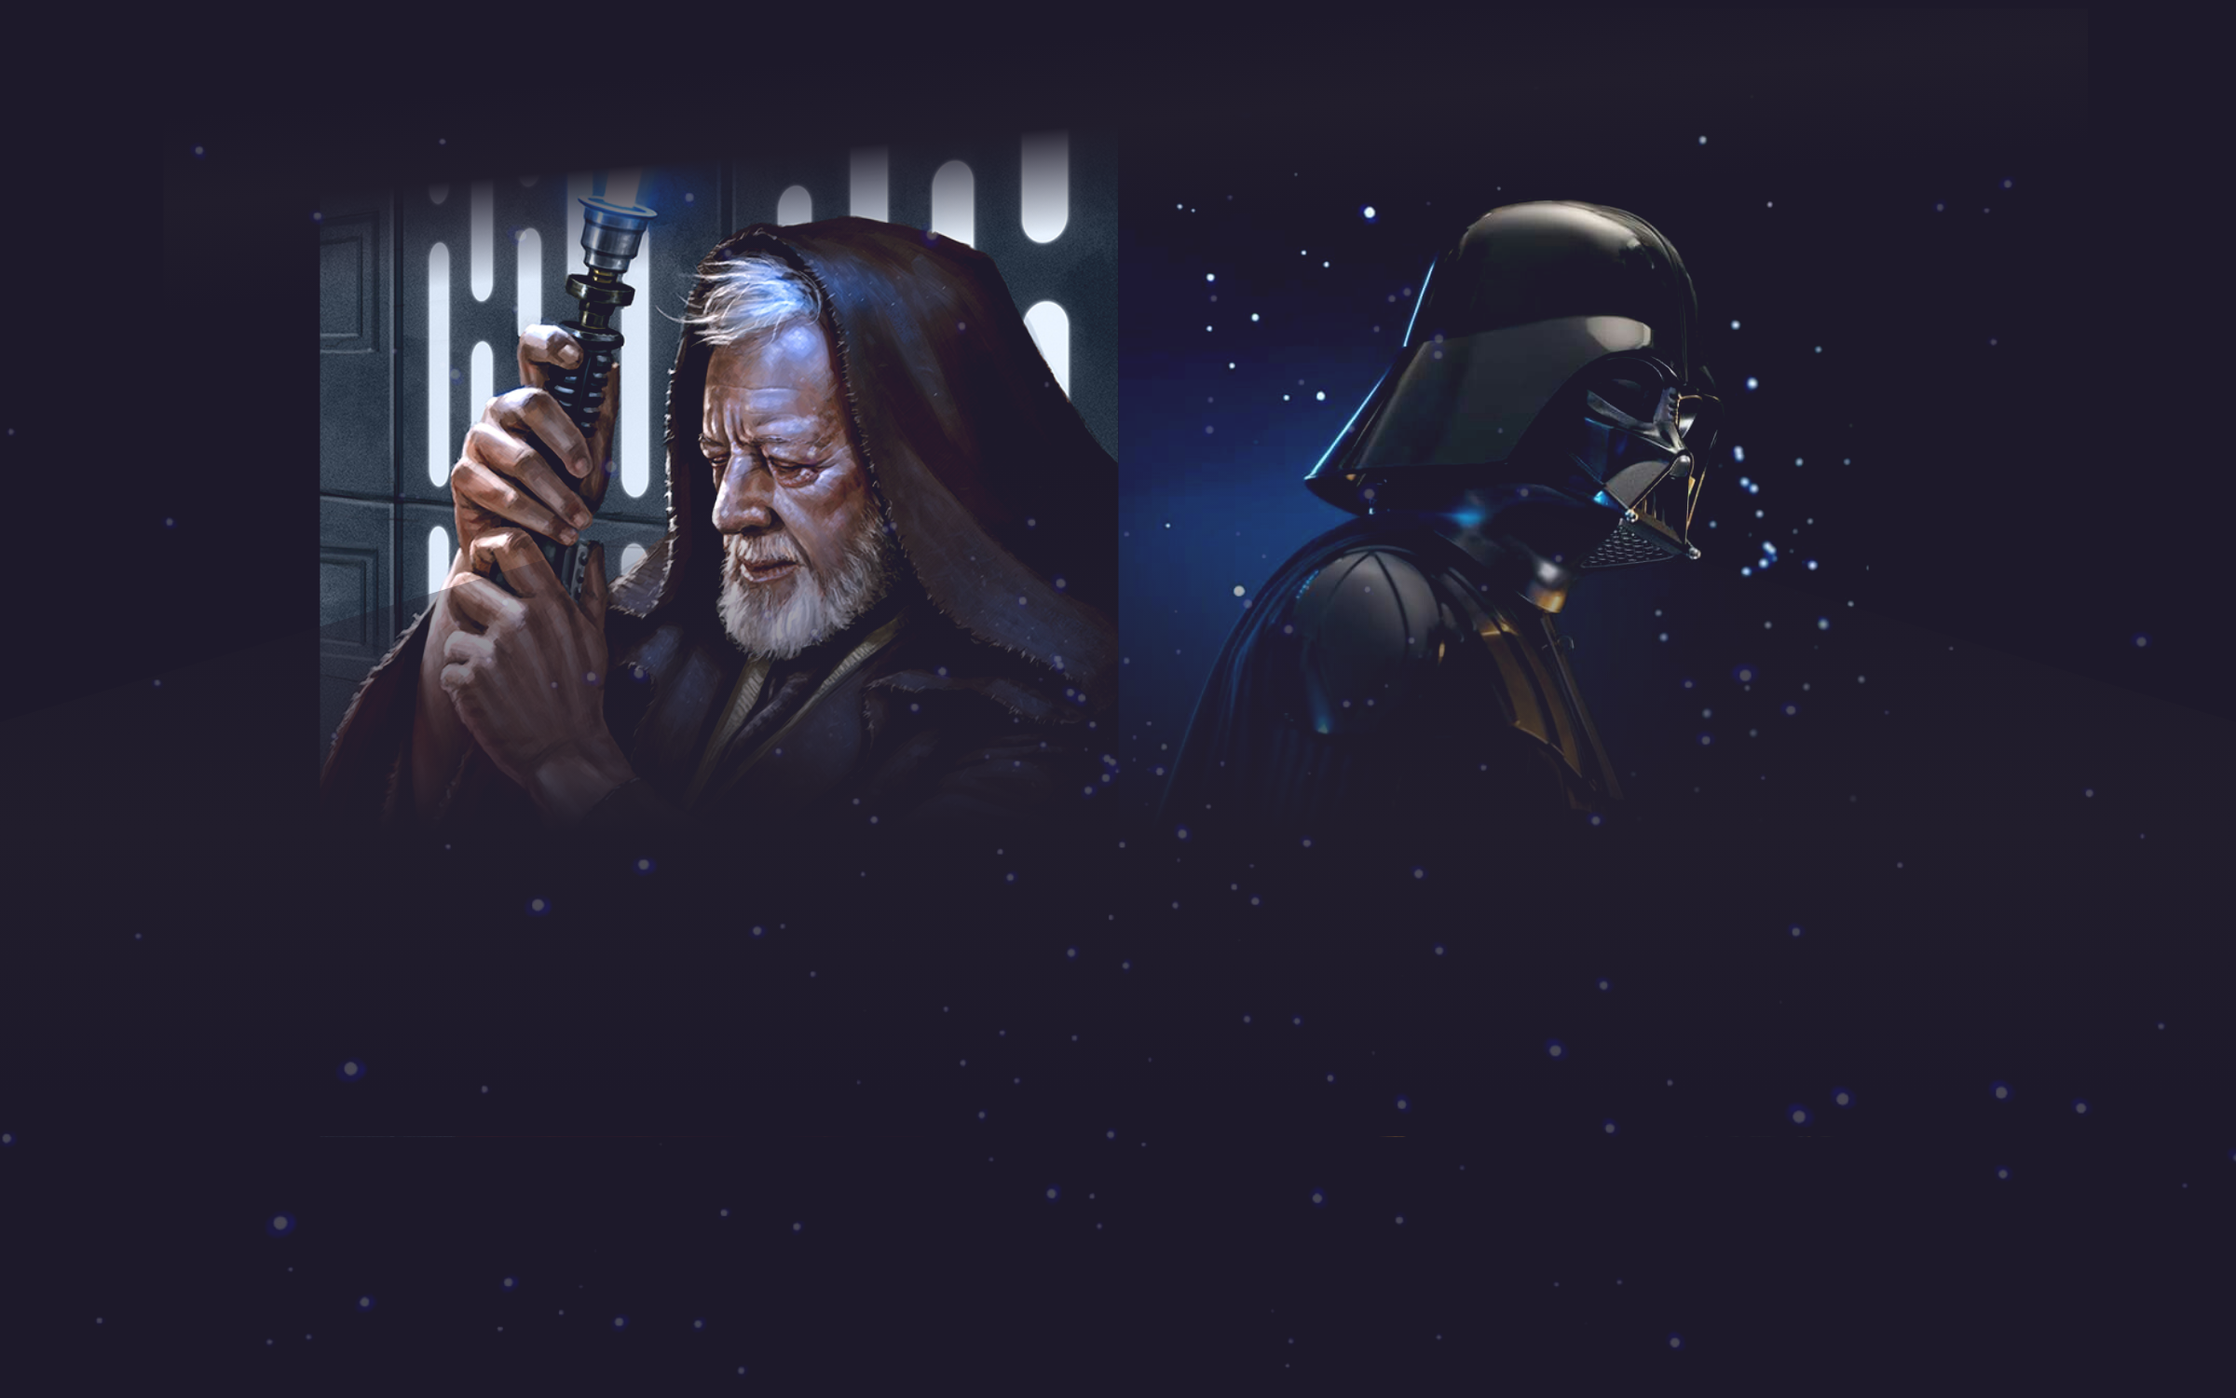
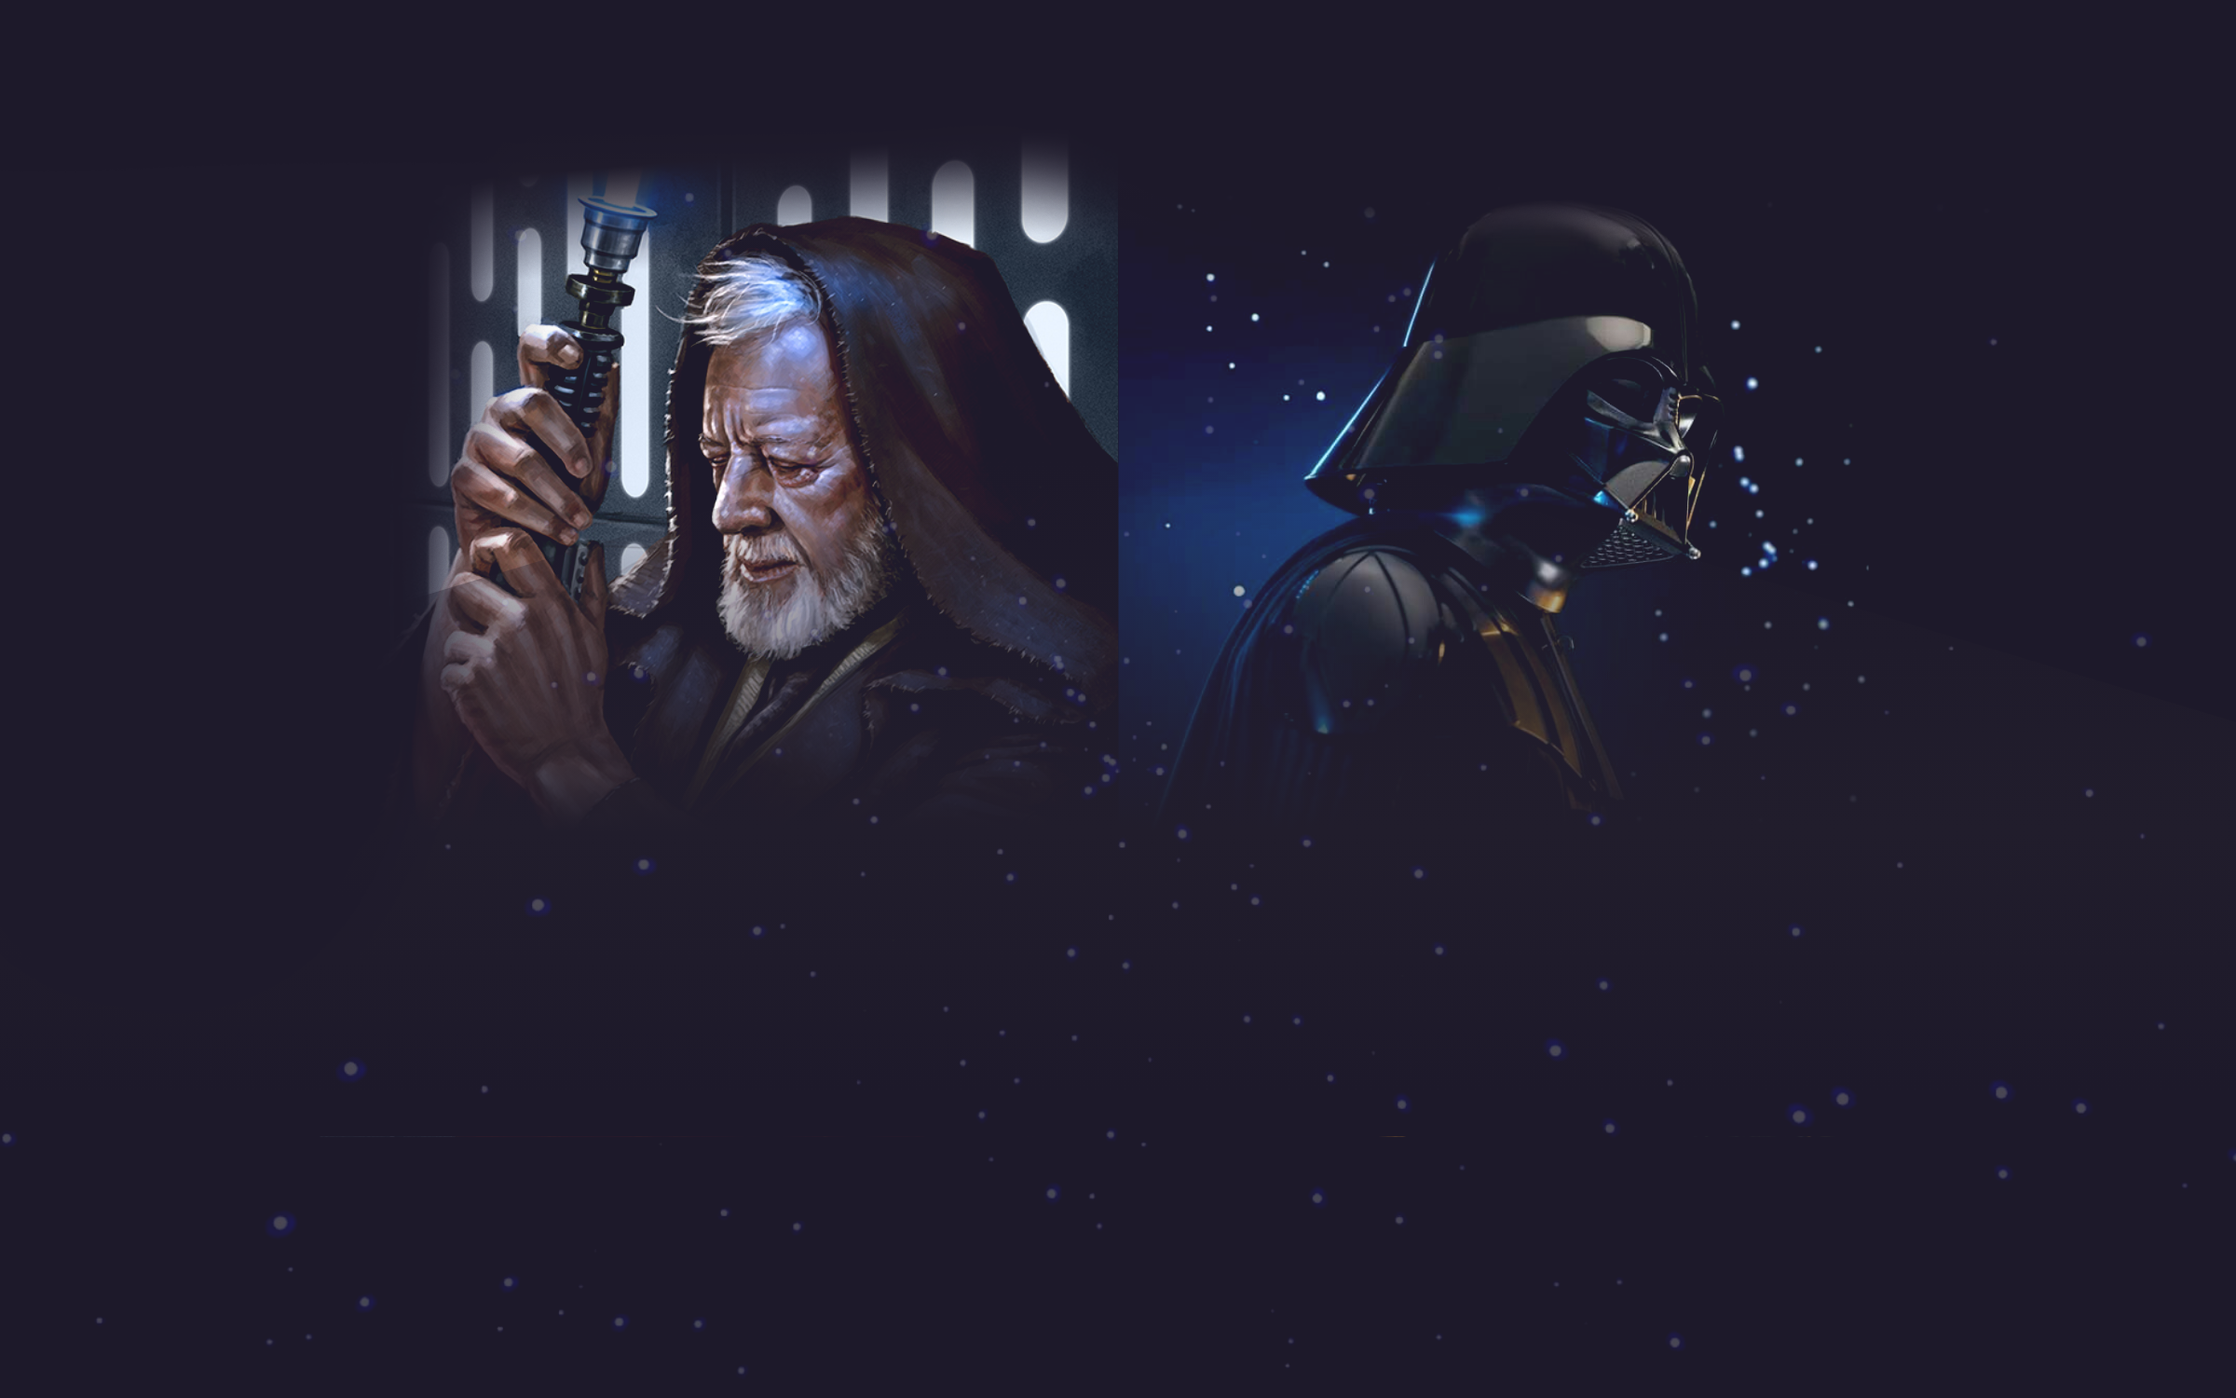
ajustes varios

Changed region(s): [[0.125, 0.1227, 0.25, 0.4907], [0.6562, 0.1227, 0.75, 0.184], [0.4375, 0.092, 0.5, 0.184]]

diff --git a/src/paginas/Multimedia/Multimedia.tsx b/src/paginas/Multimedia/Multimedia.tsx
@@ -3,6 +3,7 @@ import Add from '@mui/icons-material/Add';
 import imgFondoSeccionMultimedia from './../../assets/fondo-seccion-multimedia.png';
 import { useEffect } from 'react';
 import instagramServices from './../../servicios/instagram';
+import { ArrowBack, ChevronLeft, ChevronRight } from '@mui/icons-material';
 
 export const Multimedia = () => {
 
@@ -21,6 +22,7 @@ export const Multimedia = () => {
       className="min-h-screen bg-no-repeat bg-top bg-contain pt-52 pb-16">
       <div className="container mx-auto px-5">
         <div className="grid grid-cols-12 gap-5 items-center">
+          
           <div className="col-span-12 mb-20">
             <div className="max-w-md mx-auto">
               <div className="flex flex-col items-center mb-10">
@@ -47,22 +49,25 @@ export const Multimedia = () => {
             </div>
           </div>
 
+        </div>
+
+       
+        <div className="grid grid-cols-12 gap-5 items-center px-20 relative">
+          <div className="absolute left-0">
+            <button className="rounded-full">
+              <span className="h-12 w-12 rounded-full border-2 border-secondary-100 mx-auto text-secondary-100 inline-flex items-center justify-center bg-primary-100
+                hover:bg-secondary-100 hover:text-primary-100 shadow-lg
+              ">
+                <ChevronLeft />
+              </span>
+            </button>
+          </div>
+
           <div className="col-span-12 xs:col-span-6 lg:col-span-3">
             <div className="relative mx-4">
               <div className="absolute z-30 w-full h-full flex text-center items-center justify-center">
                 <div className="w-10 h-10 border border-secondary-100 text-secondary-100 hover:bg-secondary-100 hover:text-white">
                   <Add className="mt-2" />
-                </div>
-              </div>
-              <div className="absolute z-40 bottom-0 w-full p-5">
-                <div className="text-center">
-                  <h3 className="text-secondary-100 font-primary font-black uppercase tracking-wider pb-0">Nombre Evento</h3>
-                  <div className="text-primary-50 font-medium text-xs font-primary tracking-widest">16/03/2023</div>
-                </div>
-              </div>
-              <div className="absolute z-40 w-full flex flex-col p-5">
-                <div className="text-end">
-                  <div className="text-white font-black font-secondary text-base">01</div>
                 </div>
               </div>
               <div className="square-border w-full h-96 absolute z-20"></div>
@@ -152,9 +157,128 @@ export const Multimedia = () => {
           </div>
 
 
-        </div>
-      </div>
+          <div className="absolute right-0">
+            <button className="rounded-full">
+              <span className="h-12 w-12 rounded-full border-2 border-secondary-100 mx-auto text-secondary-100 inline-flex items-center justify-center bg-primary-100
+                hover:bg-secondary-100 hover:text-primary-100 shadow-lg
+              ">
+                <ChevronRight />
+              </span>
+            </button>
+          </div>
 
+        </div>
+        
+
+       {/* 
+        <div className="grid grid-cols-12 gap-5 items-center">
+          <div className="col-span-12 xs:col-span-6 lg:col-span-3">
+            <div className="relative mx-4">
+              <div className="absolute z-30 w-full h-full flex text-center items-center justify-center">
+                <div className="w-10 h-10 border border-secondary-100 text-secondary-100 hover:bg-secondary-100 hover:text-white">
+                  <Add className="mt-2" />
+                </div>
+              </div>
+              <div className="absolute z-40 bottom-0 w-full p-5">
+                <div className="text-center">
+                  <h3 className="text-secondary-100 font-primary font-black uppercase tracking-wider pb-0">Nombre Evento</h3>
+                  <div className="text-primary-50 font-medium text-xs font-primary tracking-widest">16/03/2023</div>
+                </div>
+              </div>
+              <div className="absolute z-40 w-full flex flex-col p-5">
+                <div className="text-end">
+                  <div className="text-white font-black font-secondary text-base">01</div>
+                </div>
+              </div>
+              <div className="square-border w-full h-96 absolute z-20"></div>
+              <div className="absolute z-10 w-full h-full bg-gradient-to-b from-transparent to-primary-100"></div>
+              <div
+                style={{ backgroundImage: `url(https://sm.ign.com/t/ign_es/feature/r/ranking-th/ranking-the-star-wars-movies-from-worst-to-best_hauh.1200.jpg)` }}
+                className="square bg-primary-90 w-full h-96 z-0 bg-no-repeat bg-cover bg-center"></div>
+            </div>
+          </div>
+
+          <div className="col-span-12 sm:col-span-6 lg:col-span-3">
+            <div className="relative mx-4">
+              <div className="absolute z-30 w-full h-full flex text-center items-center justify-center">
+                <div className="w-10 h-10 border border-secondary-100 text-secondary-100 hover:bg-secondary-100 hover:text-white">
+                  <Add className="mt-2" />
+                </div>
+              </div>
+              <div className="absolute z-40 bottom-0 w-full p-5">
+                <div className="text-center">
+                  <h3 className="text-secondary-100 font-primary font-black uppercase tracking-wider pb-0">Nombre Evento</h3>
+                  <div className="text-primary-50 font-medium text-xs font-primary tracking-widest">16/03/2023</div>
+                </div>
+              </div>
+              <div className="absolute z-40 w-full flex flex-col p-5">
+                <div className="text-end">
+                  <div className="text-white font-black font-secondary text-base">02</div>
+                </div>
+              </div>
+              <div className="square-border w-full h-96 absolute z-20"></div>
+              <div className="absolute z-10 w-full h-full bg-gradient-to-b from-transparent to-primary-100"></div>
+              <div
+                style={{ backgroundImage: `url(https://cdn.businessinsider.es/sites/navi.axelspringer.es/public/media/image/2021/04/todas-peliculas-star-wars-clasificadas-peor-mejor-publico-2316225.jpg)` }}
+                className="square bg-primary-90 w-full h-96 z-0 bg-no-repeat bg-cover bg-center"></div>
+            </div>
+          </div>
+
+          <div className="col-span-12 sm:col-span-6 lg:col-span-3">
+            <div className="relative mx-4">
+              <div className="absolute z-30 w-full h-full flex text-center items-center justify-center">
+                <div className="w-10 h-10 border border-secondary-100 text-secondary-100 hover:bg-secondary-100 hover:text-white">
+                  <Add className="mt-2" />
+                </div>
+              </div>
+              <div className="absolute z-40 bottom-0 w-full p-5">
+                <div className="text-center">
+                  <h3 className="text-secondary-100 font-primary font-black uppercase tracking-wider pb-0">Nombre Evento</h3>
+                  <div className="text-primary-50 font-medium text-xs font-primary tracking-widest">16/03/2023</div>
+                </div>
+              </div>
+              <div className="absolute z-40 w-full flex flex-col p-5">
+                <div className="text-end">
+                  <div className="text-white font-black font-secondary text-base">03</div>
+                </div>
+              </div>
+              <div className="square-border w-full h-96 absolute z-20"></div>
+              <div className="absolute z-10 w-full h-full bg-gradient-to-b from-transparent to-primary-100"></div>
+              <div
+                style={{ backgroundImage: `url(https://m.media-amazon.com/images/M/MV5BZWFlNzRmOTItZjY1Ni00ZjZkLTk5MDgtOGFhOTYzNWFhYzhmXkEyXkFqcGdeQXVyMDM2NDM2MQ@@._V1_FMjpg_UX1000_.jpg)` }}
+                className="square bg-primary-90 w-full h-96 z-0 bg-no-repeat bg-cover bg-center"></div>
+            </div>
+          </div>
+
+          <div className="col-span-12 xs:col-span-6 lg:col-span-3">
+            <div className="relative mx-4">
+              <div className="absolute z-30 w-full h-full flex text-center items-center justify-center">
+                <div className="w-10 h-10 border border-secondary-100 text-secondary-100 hover:bg-secondary-100 hover:text-white">
+                  <Add className="mt-2" />
+                </div>
+              </div>
+              <div className="absolute z-40 bottom-0 w-full p-5">
+                <div className="text-center">
+                  <h3 className="text-secondary-100 font-primary font-black uppercase tracking-wider pb-0">Nombre Evento</h3>
+                  <div className="text-primary-50 font-medium text-xs font-primary tracking-widest">16/03/2023</div>
+                </div>
+              </div>
+              <div className="absolute z-40 w-full flex flex-col p-5">
+                <div className="text-end">
+                  <div className="text-white font-black font-secondary text-base">04</div>
+                </div>
+              </div>
+              <div className="square-border w-full h-96 absolute z-20"></div>
+              <div className="absolute z-10 w-full h-full bg-gradient-to-b from-transparent to-primary-100"></div>
+              <div
+                style={{ backgroundImage: `url(https://lumiere-a.akamaihd.net/v1/images/image_c671e2ee.jpeg)` }}
+                className="square bg-primary-90 w-full h-96 z-0 bg-no-repeat bg-cover bg-center"></div>
+            </div>
+          </div>
+        </div>
+      */}
+      
+      </div>
     </section>
   )
 };

diff --git a/src/componentes/Header/Header.tsx b/src/componentes/Header/Header.tsx
@@ -1,6 +1,7 @@
 import { Facebook, Instagram, MailOutline, Menu } from "@mui/icons-material"
 import { useEffect, useState } from "react";
 import esgrimaLogo from './../../assets/esgrima-logo.svg'
+import { DEFINITION } from "./../../config/definitions";
 
 export const Header = () => {
 
@@ -60,12 +61,12 @@ export const Header = () => {
               <div className="w-3/12 text-end">
                 <div className="text-white">
                   <span className="m-3">
-                    <a href="#">
+                    <a href={DEFINITION.SOCIAL.INSTAGRAM} target="_blank">
                       <Instagram />
                     </a>
                   </span>
                   <span className="m-3">
-                    <a href="#">
+                    <a href={DEFINITION.SOCIAL.FACEBOOK} target="_blank">
                       <Facebook />
                     </a>
                   </span>
@@ -79,12 +80,12 @@ export const Header = () => {
               <div className="w-12/12 flex items-center">
                 <div className="text-white py-4 mr-4">
                   <span className="m-4">
-                    <a href="#">
+                    <a href={DEFINITION.SOCIAL.INSTAGRAM} target="_blank">
                       <Instagram />
                     </a>
                   </span>
                   <span className="m-4">
-                    <a href="#">
+                    <a href={DEFINITION.SOCIAL.FACEBOOK} target="_blank">
                       <Facebook />
                     </a>
                   </span>

diff --git a/src/componentes/Footer/Footer.tsx b/src/componentes/Footer/Footer.tsx
@@ -1,5 +1,6 @@
 import { Facebook, Instagram, MailOutline } from "@mui/icons-material"
 import imgEsgrimaJedi from './../../assets/esgrima-jedi-chile-blanco.svg'
+import { DEFINITION } from "./../../config/definitions";
 
 export const Footer = () => {
    return (
@@ -46,12 +47,12 @@ export const Footer = () => {
             <div className="grid grid-cols-12 gap-6 items-center">
                <div className="col-span-12 text-center text-white">
                   <span className="m-3 inline-block">
-                     <a href="#">
+                    <a href={DEFINITION.SOCIAL.INSTAGRAM} target="_blank">
                         <Instagram />
                      </a>
                   </span>
                   <span className="m-3 inline-block">
-                     <a href="#">
+                    <a href={DEFINITION.SOCIAL.FACEBOOK} target="_blank">
                         <Facebook />
                      </a>
                   </span>

diff --git a/index.html b/index.html
@@ -2,9 +2,9 @@
 <html lang="en">
   <head>
     <meta charset="UTF-8" />
-    <link rel="icon" type="image/svg+xml" href="/vite.svg" />
+    <link rel="icon" type="image/svg+xml" href="/favicon.ico" />
     <meta name="viewport" content="width=device-width, initial-scale=1.0" />
-    <title>Vite + React + TS</title>
+    <title>Esgrima Jedi Chile - Valparaíso</title>
     <link rel="preconnect" href="https://fonts.googleapis.com">
     <link rel="preconnect" href="https://fonts.gstatic.com" crossorigin>
     <link href="https://fonts.googleapis.com/css2?family=Nunito+Sans:ital,wght@0,300;0,400;0,600;0,700;0,800;0,900;1,300;1,400;1,600;1,700;1,800;1,900&display=swap" rel="stylesheet">

diff --git a/src/paginas/Home/Home.tsx b/src/paginas/Home/Home.tsx
@@ -1,5 +1,7 @@
 import bgHome from './images/bg-home.png';
+import bgHome2 from './images/bg-home-2.png';
 import esgrimaJediValparaiso from './../../assets/esgrimajedi-valparaiso-logo.svg';
+
 
 export const Home = () => {
   return (
@@ -21,7 +23,7 @@ export const Home = () => {
         </div>
       </div>
       <div
-        style={{ backgroundImage: `url(${bgHome})` }}
+        style={{ backgroundImage: `url(${bgHome2})` }}
         className="h-screen bg-no-repeat bg-center bg-cover absolute w-full top-0 left-0 right-0 bottom-0 z-0 opacity-20 sm:opacity-60 md:opacity-100"></div>
     </section>
   )

diff --git a/src/config/definitions.tsx b/src/config/definitions.tsx
@@ -12,6 +12,11 @@ interface FactionImages {
   };
 }
 
+interface SOCIAL {
+  INSTAGRAM: string;
+  FACEBOOK: string;
+}
+
 export const DEFINITION = {
   FACTION_IMAGES : {
     'JEDI': {
@@ -26,5 +31,11 @@ export const DEFINITION = {
       NORMAL: neutral,
       HOVER:  neutralHover,
     }
-  } as FactionImages
+  } as FactionImages,
+
+
+  SOCIAL : {
+    INSTAGRAM: 'https://www.instagram.com/esgrimajedivalpo/',
+    FACEBOOK: 'https://www.facebook.com/esgrimajedivalpo',
+  } as SOCIAL,
 }

diff --git a/src/paginas/Conocenos/Personajes/ListadoPersonajes.tsx b/src/paginas/Conocenos/Personajes/ListadoPersonajes.tsx
@@ -37,6 +37,10 @@ export const ListadoPersonajes = () => {
               slidesPerView:8,
               spaceBetween: 40,
             },
+            1280:{
+              slidesPerView:10,
+              spaceBetween: 40,
+            }
           }}
         >
           {personasFaccion.map(( persona : personaType , index : number ) => {

diff --git a/src/paginas/Conocenos/Personajes/DetallePersonaje.tsx b/src/paginas/Conocenos/Personajes/DetallePersonaje.tsx
@@ -15,8 +15,6 @@ export const DetallePersonaje = () => {
     isLoadingPersona : boolean
   } = useContext(ConocenosContext);
 
-  console.log(personaSeleccionada);
-
   return(
     <div className="col-span-12 lg:col-span-6 relative">
       <div className={`absolute w-full flex flex-col sm:flex-row h-[400px] transition ease-in
